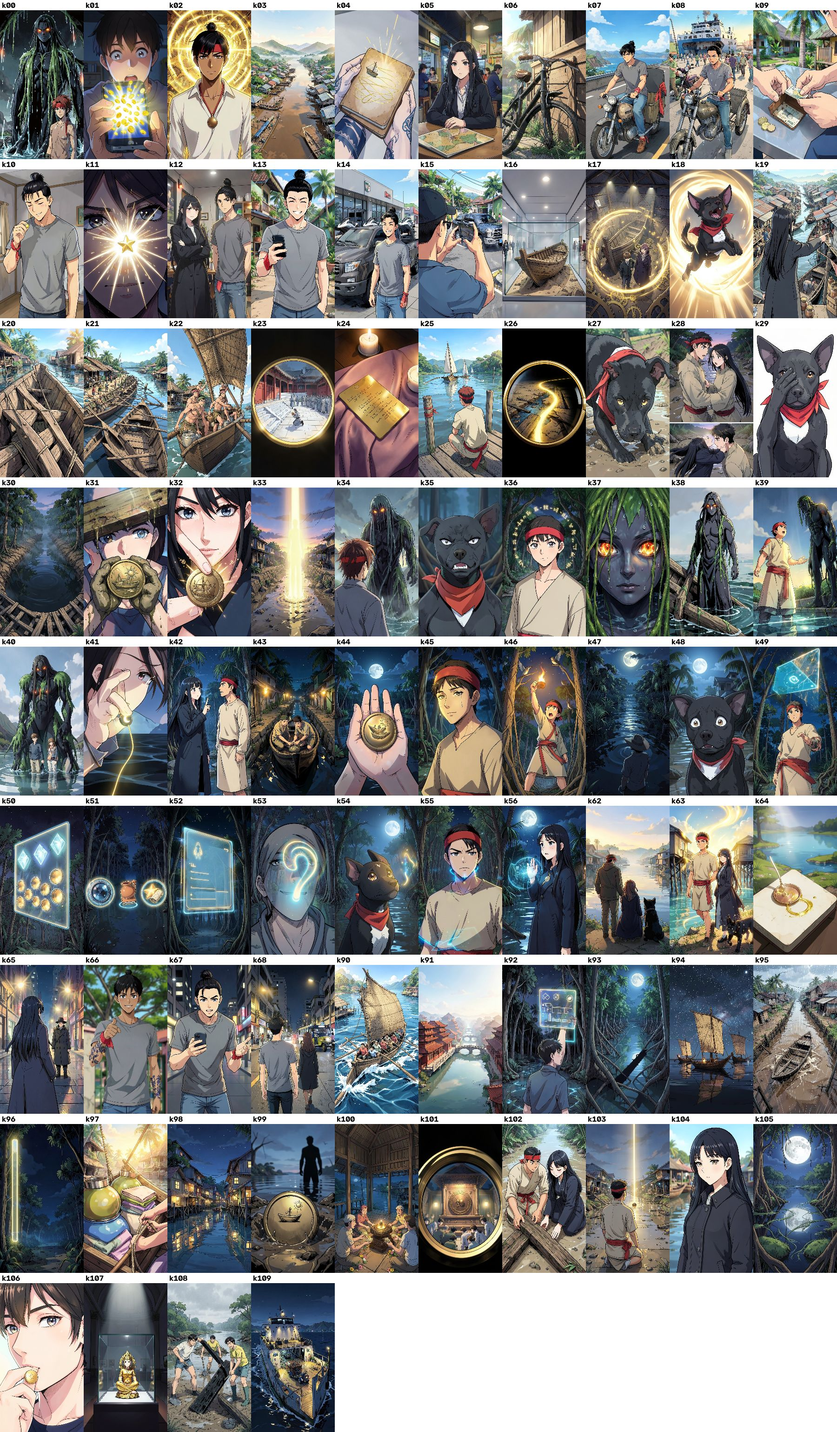
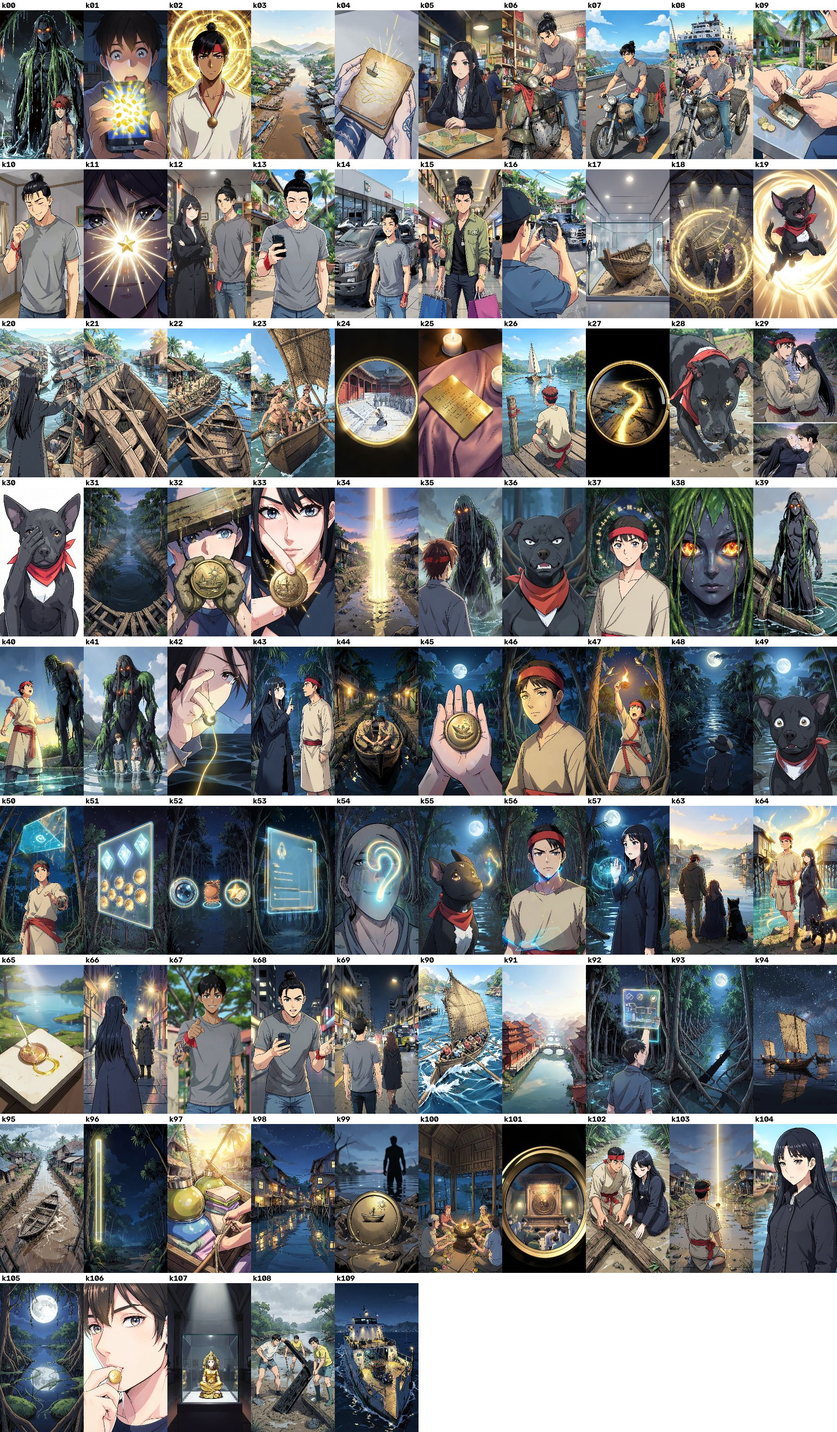
History Indio: Episode 11 version 3 (no bicycle line; the spree widened to watch, clothes and phones; 745 words, 85 keys)
Claude-Session: https://claude.ai/code/session_014Q6Ynkqw8rTpygZjzUDdiq

diff --git a/history-indio/videos/ep11-ang-sugo-ng-butuan/facts.md b/history-indio/videos/ep11-ang-sugo-ng-butuan/facts.md
@@ -12,27 +12,27 @@
 |---|---|---|---|---|
 | 1 | "Sa lawa ng lumang ilog, may anyong itim na umaahon, nakatingin sa akin." (0) | hook: the Yúmud rising | fiction (kuwentong-bayan creature) | — |
 | 2 | "At oo, kahapon lang, naging mayaman ako." (1) | the first wish (wealth) | fiction | SERIES.md "The three wishes, final" |
-| 3 | "Ang clue ng kuwaderno ni Lolo: mga barko, pahilaga, papunta sa isang emperador." (4) | the clue; the Lolo's bicycle; the second-hand motorcycle with an empty sidecar for Usman; out of money at Surigao; the wish; the money; the buying spree; the stranger's photo (to 15) | fiction (Usman stays out of the present, as the series rules require) | SERIES.md master plot v2 (the mount; the fleet) |
-| 4 | "Sa Balangay Shrine, binasa ko nang malakas ang nakasulat sa tabi ng bangka." (16) | reading aloud by the boat at the Balangay Shrine (Balangay Site Museum, Sitio Ambangan, Libertad, Butuan) starts the jump | the shrine: certain; the jump: fiction | WP "Balangay" |
-| 5 | "Butuan, taong 1011, ang daungan." (19) | 1011: a Butuan mission is recorded at the Song court | certain (the mission); staging (being there) | WP "Butuan (historical polity)" (raw, read 2026-11-12); UNESCO Silk Road knowledge bank, "Participation of the Philippines in the Nanhai trade, 9th–16th centuries" [summary only]; W. H. Scott, *Prehispanic Source Materials* (1984) [cited, not opened] |
-| 6 | "Mga balangay ang nakadaong, mga tablang pinagdugtong ng tarugong kahoy at tali." (20) | planks joined edge to edge with wooden pins and fibre lashings | certain | WP "Balangay" (raw, read 2026-11-12; cites Clark et al., *Int. J. Nautical Archaeology* 22:2, May 1993, and "Butuan: The First Kingdom", Butuan City Historical and Cultural Foundation, 1990 [cited there, not opened]) |
-| 7 | "Labing-isang ganitong bangka ang nahukay sa Butuan, mula pa sa mga taong 689 hanggang 988." (21) | eleven Butuan boats, carbon-dated 689–988 CE | certain | WP "Balangay" (raw, read 2026-11-12; cites Clark et al., *Int. J. Nautical Archaeology* 22:2, May 1993, and "Butuan: The First Kingdom", Butuan City Historical and Cultural Foundation, 1990 [cited there, not opened]) |
-| 8 | "Sa daungan, may mga barkong naghahanda pahilaga, sakto sa clue ni Lolo." (22) | ships readying to go north | staging | — |
-| 9 | "Noong 1007, humingi ang sugo ni Rajah Kiling ng ranggong kapantay ng sa Champa." (23) | Kiling's envoy asked for Champa's rank | certain that he asked; outcome disputed (sentence 59) | WP "Butuan (historical polity)" (raw, read 2026-11-12); UNESCO Silk Road knowledge bank, "Participation of the Philippines in the Nanhai trade, 9th–16th centuries" [summary only]; W. H. Scott, *Prehispanic Source Materials* (1984) [cited, not opened] |
-| 10 | "Noong 1011, may sugong nag-alay sa emperador ng sulat na nakaukit sa gintong tableta." (24) | a memorial on a gold tablet presented to Emperor Zhenzong in 1011 | certain | WP "Butuan (historical polity)" (raw, read 2026-11-12); UNESCO Silk Road knowledge bank, "Participation of the Philippines in the Nanhai trade, 9th–16th centuries" [summary only]; W. H. Scott, *Prehispanic Source Materials* (1984) [cited, not opened] |
-| 11 | "Sa lente, sinundan ko ang kislap ng tanso hanggang sa isang lawa." (26) | the hunt; the pabitin near-moment and Usman's gag; the medallion; the diwa's first line (to 33) | fiction (the diwa's line: approved exception 1, labelled) | SERIES.md |
-| 12 | "Umahon ang anyong itim, buhok na parang lumot, mga matang parang baga." (34) | THE CREATURE: the Yúmud (sentences 34–41): understood through Ang Sugo; a guardian, not a monster; "Nakita na kita."; the pact sealed by M's Sandugo | the being: Agusan Manobo folklore; its words, role and the pact: fiction | J. M. Garvan, *The Manóbos of Mindanáo*, Memoirs of the National Academy of Sciences XXIII (1931), Agusan valley: "Yúmud, the water wraith, an apparently innocuous spirit, abiding in deep and rocky places, usually in pools, beneath the surface of the water" [quoted from two search summaries (aswangproject.com); Gutenberg ebook 18607 could not be opened from this machine] |
-| 13 | "Ang Sugo, Indio: naiintindihan mo ang lahat ng wika, pero hindi mo ito masasalita." (42) | the power's limit | fiction | — |
-| 14 | "Sa lente, dating anito ito ng bayan ni Kiling, itinago sa lumang bangka, at lumubog sa baha." (43) | the medallion's fate | fiction | SERIES.md |
-| 15 | "Ang Galilea ang unang aral: gigising lang ang labindalawa sa saksing hindi nang-aagaw." (44) | INVENTED LINE of the diwa (second of two); closes the Ep 9 question | fiction | Ep 9 |
-| 16 | "Itinaas ko ang ilawan, at biglang tumahimik ang mga ibon sa bakawan." (46) | the enemy's trace: birds silent, a shadow with no owner (to 48) | fiction | SERIES.md master plot (gradual traces) |
-| 17 | "Umilaw ang isa sa mga marka sa braso ko, at lumabas sa hangin ang isang hologram." (49) | the hologram: marks, slots, gear, Sakay (the motorcycle), Mga Kakampi (the Yúmud), knowledge 12%, the sign (to 56) | fiction | SERIES.md master plot |
-| 18 | "Tiyak: ang mga balangay ng Butuan at ang mga sugo nito sa korte ng Song." (58) | summary of the certain rows | certain | rows above |
-| 19 | "Pinagtatalunan: kung pinagbigyan ang hiling na kapantay ng Champa." (59) | whether the 1007 request was granted | disputed | WP "Butuan (historical polity)"; a Song text quoted elsewhere [summary only] |
-| 20 | "Totoo si Rajah Kiling: sa tala ng Song, hari siya ng Butuan na nagpadala ng sugo." (60) | the Song record names Kiling as ruler of Butuan who sent the 1007 envoy | certain | WP "Butuan (historical polity)" (raw, read 2026-11-12); UNESCO Silk Road knowledge bank, "Participation of the Philippines in the Nanhai trade, 9th–16th centuries" [summary only]; W. H. Scott, *Prehispanic Source Materials* (1984) [cited, not opened] |
-| 21 | "Kuwentong-bayan ng mga Manobo ng Agusan ang Yúmud, isang diwa ng tubig." (61) | label: the Yúmud is Agusan Manobo folklore | certain that it is recorded folklore | J. M. Garvan, *The Manóbos of Mindanáo*, Memoirs of the National Academy of Sciences XXIII (1931), Agusan valley: "Yúmud, the water wraith, an apparently innocuous spirit, abiding in deep and rocky places, usually in pools, beneath the surface of the water" [quoted from two search summaries (aswangproject.com); Gutenberg ebook 18607 could not be opened from this machine] |
-| 22 | "Kathang-isip: kami nina M at Usman, ang medalyon, ang hiling, ang anino at ang hologram." (62) | fiction label | — | — |
-| 23 | "Pag-uwi namin, naglaho si Usman, at nagsulat ang kuwaderno." (63) | return; the next clue (a gold debt forgiven at a river mouth in Laguna: the Laguna Copperplate, Ep 12); M senses someone following his money | fiction; the clue points to true history | research.md |
+| 3 | "Ang clue ng kuwaderno ni Lolo: mga barko, pahilaga, papunta sa isang emperador." (4) | the clue; the second-hand motorcycle (bought on instalments) with an empty sidecar for Usman; out of money at Surigao; the wish; the money; the buying spree (pickup, jet ski, an oversized watch, new clothes, two phones); the stranger's photo (to 16) | fiction (Usman stays out of the present, as the series rules require) | SERIES.md master plot v2 (the mount; the fleet) |
+| 4 | "Sa Balangay Shrine, binasa ko nang malakas ang nakasulat sa tabi ng bangka." (17) | reading aloud by the boat at the Balangay Shrine (Balangay Site Museum, Sitio Ambangan, Libertad, Butuan) starts the jump | the shrine: certain; the jump: fiction | WP "Balangay" |
+| 5 | "Butuan, taong 1011, ang daungan." (20) | 1011: a Butuan mission is recorded at the Song court | certain (the mission); staging (being there) | WP "Butuan (historical polity)" (raw, read 2026-11-12); UNESCO Silk Road knowledge bank, "Participation of the Philippines in the Nanhai trade, 9th–16th centuries" [summary only]; W. H. Scott, *Prehispanic Source Materials* (1984) [cited, not opened] |
+| 6 | "Mga balangay ang nakadaong, mga tablang pinagdugtong ng tarugong kahoy at tali." (21) | planks joined edge to edge with wooden pins and fibre lashings | certain | WP "Balangay" (raw, read 2026-11-12; cites Clark et al., *Int. J. Nautical Archaeology* 22:2, May 1993, and "Butuan: The First Kingdom", Butuan City Historical and Cultural Foundation, 1990 [cited there, not opened]) |
+| 7 | "Labing-isang ganitong bangka ang nahukay sa Butuan, mula pa sa mga taong 689 hanggang 988." (22) | eleven Butuan boats, carbon-dated 689–988 CE | certain | WP "Balangay" (raw, read 2026-11-12; cites Clark et al., *Int. J. Nautical Archaeology* 22:2, May 1993, and "Butuan: The First Kingdom", Butuan City Historical and Cultural Foundation, 1990 [cited there, not opened]) |
+| 8 | "Sa daungan, may mga barkong naghahanda pahilaga, sakto sa clue ni Lolo." (23) | ships readying to go north | staging | — |
+| 9 | "Noong 1007, humingi ang sugo ni Rajah Kiling ng ranggong kapantay ng sa Champa." (24) | Kiling's envoy asked for Champa's rank | certain that he asked; outcome disputed (sentence 60) | WP "Butuan (historical polity)" (raw, read 2026-11-12); UNESCO Silk Road knowledge bank, "Participation of the Philippines in the Nanhai trade, 9th–16th centuries" [summary only]; W. H. Scott, *Prehispanic Source Materials* (1984) [cited, not opened] |
+| 10 | "Noong 1011, may sugong nag-alay sa emperador ng sulat na nakaukit sa gintong tableta." (25) | a memorial on a gold tablet presented to Emperor Zhenzong in 1011 | certain | WP "Butuan (historical polity)" (raw, read 2026-11-12); UNESCO Silk Road knowledge bank, "Participation of the Philippines in the Nanhai trade, 9th–16th centuries" [summary only]; W. H. Scott, *Prehispanic Source Materials* (1984) [cited, not opened] |
+| 11 | "Sa lente, sinundan ko ang kislap ng tanso hanggang sa isang lawa." (27) | the hunt; the pabitin near-moment and Usman's gag; the medallion; the diwa's first line (to 34) | fiction (the diwa's line: approved exception 1, labelled) | SERIES.md |
+| 12 | "Umahon ang anyong itim, buhok na parang lumot, mga matang parang baga." (35) | THE CREATURE: the Yúmud (sentences 35–42): understood through Ang Sugo; a guardian, not a monster; "Nakita na kita."; the pact sealed by M's Sandugo | the being: Agusan Manobo folklore; its words, role and the pact: fiction | J. M. Garvan, *The Manóbos of Mindanáo*, Memoirs of the National Academy of Sciences XXIII (1931), Agusan valley: "Yúmud, the water wraith, an apparently innocuous spirit, abiding in deep and rocky places, usually in pools, beneath the surface of the water" [quoted from two search summaries (aswangproject.com); Gutenberg ebook 18607 could not be opened from this machine] |
+| 13 | "Ang Sugo, Indio: naiintindihan mo ang lahat ng wika, pero hindi mo ito masasalita." (43) | the power's limit | fiction | — |
+| 14 | "Sa lente, dating anito ito ng bayan ni Kiling, itinago sa lumang bangka, at lumubog sa baha." (44) | the medallion's fate | fiction | SERIES.md |
+| 15 | "Ang Galilea ang unang aral: gigising lang ang labindalawa sa saksing hindi nang-aagaw." (45) | INVENTED LINE of the diwa (second of two); closes the Ep 9 question | fiction | Ep 9 |
+| 16 | "Itinaas ko ang ilawan, at biglang tumahimik ang mga ibon sa bakawan." (47) | the enemy's trace: birds silent, a shadow with no owner (to 49) | fiction | SERIES.md master plot (gradual traces) |
+| 17 | "Umilaw ang isa sa mga marka sa braso ko, at lumabas sa hangin ang isang hologram." (50) | the hologram: marks, slots, gear, Sakay (the motorcycle), Mga Kakampi (the Yúmud), knowledge 12%, the sign (to 57) | fiction | SERIES.md master plot |
+| 18 | "Tiyak: ang mga balangay ng Butuan at ang mga sugo nito sa korte ng Song." (59) | summary of the certain rows | certain | rows above |
+| 19 | "Pinagtatalunan: kung pinagbigyan ang hiling na kapantay ng Champa." (60) | whether the 1007 request was granted | disputed | WP "Butuan (historical polity)"; a Song text quoted elsewhere [summary only] |
+| 20 | "Totoo si Rajah Kiling: sa tala ng Song, hari siya ng Butuan na nagpadala ng sugo." (61) | the Song record names Kiling as ruler of Butuan who sent the 1007 envoy | certain | WP "Butuan (historical polity)" (raw, read 2026-11-12); UNESCO Silk Road knowledge bank, "Participation of the Philippines in the Nanhai trade, 9th–16th centuries" [summary only]; W. H. Scott, *Prehispanic Source Materials* (1984) [cited, not opened] |
+| 21 | "Kuwentong-bayan ng mga Manobo ng Agusan ang Yúmud, isang diwa ng tubig." (62) | label: the Yúmud is Agusan Manobo folklore | certain that it is recorded folklore | J. M. Garvan, *The Manóbos of Mindanáo*, Memoirs of the National Academy of Sciences XXIII (1931), Agusan valley: "Yúmud, the water wraith, an apparently innocuous spirit, abiding in deep and rocky places, usually in pools, beneath the surface of the water" [quoted from two search summaries (aswangproject.com); Gutenberg ebook 18607 could not be opened from this machine] |
+| 22 | "Kathang-isip: kami nina M at Usman, ang medalyon, ang hiling, ang anino at ang hologram." (63) | fiction label | — | — |
+| 23 | "Pag-uwi namin, naglaho si Usman, at nagsulat ang kuwaderno." (64) | return; the next clue (a gold debt forgiven at a river mouth in Laguna: the Laguna Copperplate, Ep 12); M senses someone following his money | fiction; the clue points to true history | research.md |
 
 ## True, kept for captions and pictures but no longer spoken (cut for length)
 - Nine of the boats were first found in 1976 near the Masao River (WP "Balangay").
